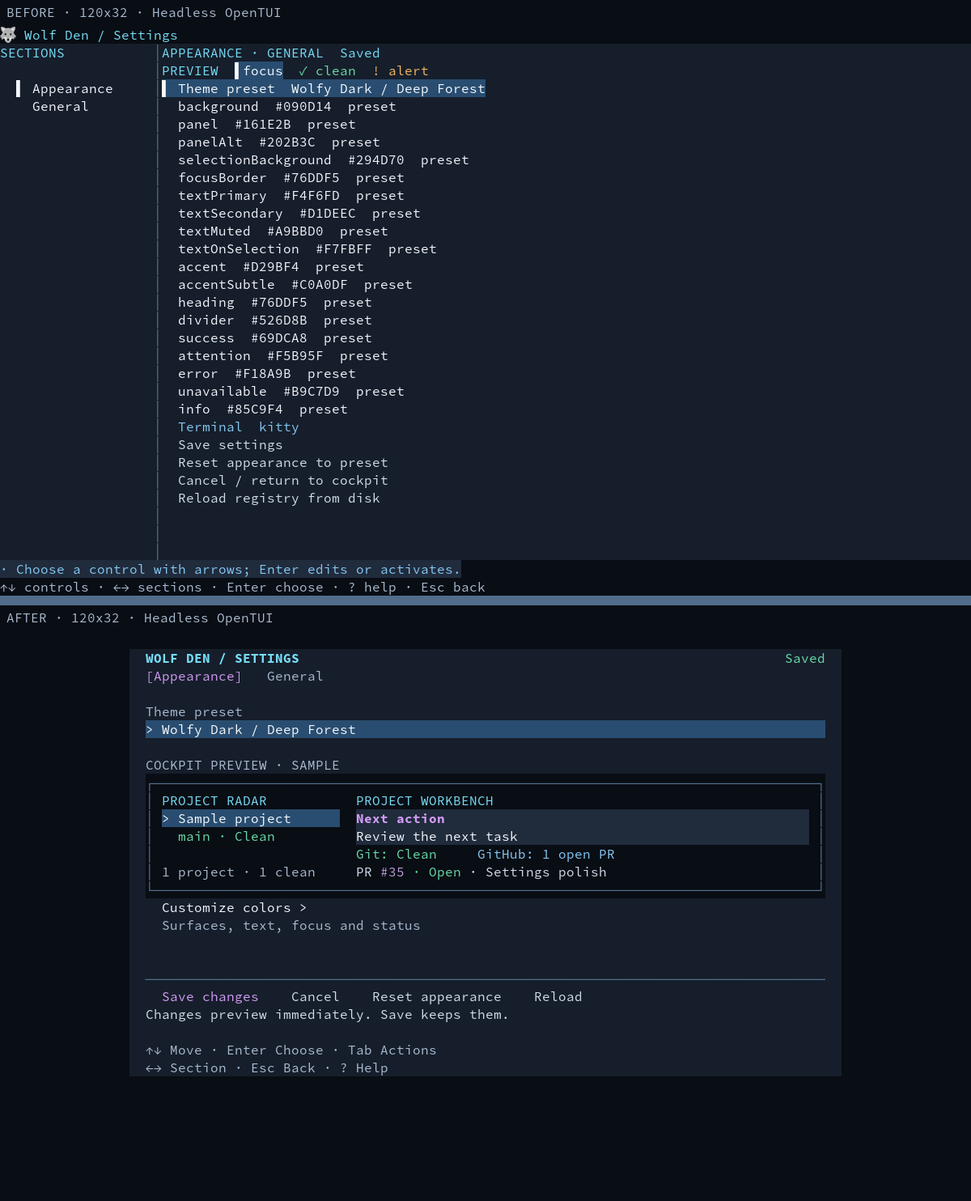
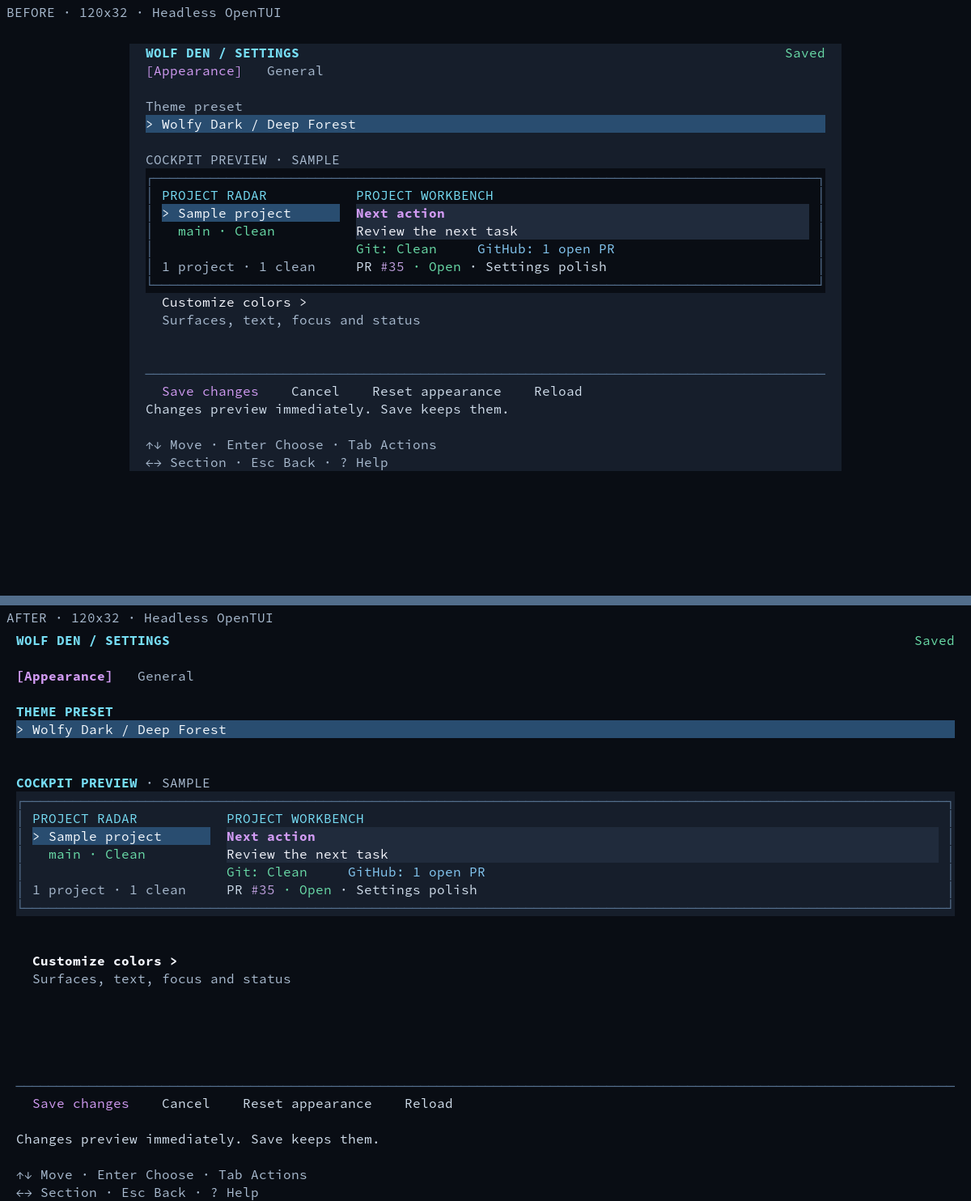
Use full-size Settings with clearer headings and section spacing

diff --git a/src/settings-view.ts b/src/settings-view.ts
@@ -63,11 +63,20 @@ export class SettingsNavigation {
 }
 
 export function settingsGeometry(width: number, height: number) {
-  const columns = Math.min(88, width >= 56 ? width - 4 : width);
-  const rows = Math.min(24, height);
+  const tight = height < 22;
+  const roomy = height >= 28;
   const padding = width >= 80 ? 2 : 1;
-  // Header, tabs, action divider/row, feedback and two keyboard-hint rows.
-  return { columns, rows, padding, innerWidth: columns - padding * 2, bodyHeight: rows - 9, compact: width < 80 || height < 22 };
+  const headingHeight = tight ? 1 : 2;
+  const tabsHeight = tight ? 2 : 1;
+  const dividerHeight = roomy ? 2 : 1;
+  const actionHeight = roomy ? 2 : 1;
+  const hintsHeight = tight ? 2 : 3;
+  const feedbackMinimum = width >= 80 ? 1 : 2;
+  const bodyHeight = height - headingHeight - tabsHeight - dividerHeight - actionHeight - feedbackMinimum - hintsHeight;
+  return { columns: width, rows: height, padding, innerWidth: width - padding * 2,
+    bodyHeight, headingHeight, tabsHeight, dividerHeight, actionHeight, hintsHeight, feedbackMinimum,
+    bodyPadding: tight ? 0 : 1, sectionGap: roomy ? 2 : tight ? 0 : 1,
+    groupHeadingHeight: tight ? 1 : 2, groupSpacing: !tight, compact: width < 80 || height < 24 };
 }
 
 function clip(text: string, width: number, widthMethod: WidthMethod): string {
@@ -132,7 +141,7 @@ export class SettingsView {
   constructor(private renderer: CliRenderer) {
     const box = (options: ConstructorParameters<typeof BoxRenderable>[1] = {}) => new BoxRenderable(renderer, { flexDirection: "column", flexShrink: 0, ...options });
     const text = (height = 1) => new TextRenderable(renderer, { height, flexShrink: 0, wrapMode: "none" });
-    this.root = box({ width: "100%", height: "100%", alignItems: "center", visible: false });
+    this.root = box({ width: "100%", height: "100%", visible: false });
     this.content = box({ width: "100%" }); this.root.add(this.content);
     this.heading = text(); this.tabs = text(2);
     this.body = box({ overflow: "hidden" });
@@ -150,10 +159,10 @@ export class SettingsView {
     this.general = text(6); this.body.add(this.general);
     this.colors = box(); this.body.add(this.colors);
     this.groupHeading = text(); this.colors.add(this.groupHeading);
-    this.colorRows = Array.from({ length: 23 }, () => {
+    this.colorRows = Array.from({ length: 28 }, () => {
       const row = box({ flexDirection: "row", height: 1 });
       const swatch = text(); swatch.width = 6;
-      const label = text(); label.flexGrow = 1;
+      const label = text();
       const value = text(); value.width = 9;
       row.add(swatch); row.add(label); row.add(value); this.colors.add(row);
       return { box: row, swatch, label, value };
@@ -174,7 +183,7 @@ export class SettingsView {
     this.root.visible = true;
     this.content.width = Math.max(1, g.columns); this.content.height = g.rows;
     this.content.paddingX = g.padding;
-    this.root.paddingTop = height > 24 ? 1 : 0;
+    this.heading.height = g.headingHeight; this.tabs.height = g.tabsHeight;
     if (!session || !theme || width < 42 || height < 18) {
       this.heading.content = "WOLF DEN / SETTINGS";
       this.tabs.content = !theme ? "Loading Settings…\nEsc Back" : "Resize to at least 42 × 18.\nEsc Back · Ctrl+C Quit";
@@ -182,7 +191,10 @@ export class SettingsView {
       return;
     }
     this.body.visible = this.actionRow.visible = this.actionDivider.visible = this.feedback.visible = this.hints.visible = true;
-    this.root.backgroundColor = theme.background; this.content.backgroundColor = theme.panel;
+    this.root.backgroundColor = theme.background; this.content.backgroundColor = theme.background;
+    this.body.paddingTop = g.bodyPadding;
+    this.actionDivider.height = g.dividerHeight; this.actionRow.height = g.actionHeight;
+    this.hints.height = g.hintsHeight;
     this.heading.fg = theme.heading; this.tabs.fg = theme.textSecondary;
     const w = g.innerWidth, wm = this.renderer.widthMethod;
     const fit = (value: string, columns = w) => clip(value, columns, wm);
@@ -190,8 +202,8 @@ export class SettingsView {
     const title = navigation.section === "colors" ? "APPEARANCE / COLORS" : "WOLF DEN / SETTINGS";
     this.heading.content = new StyledText([bold(fg(theme.heading)(title)), fg(session.dirty ? theme.attention : theme.success)(" ".repeat(Math.max(1, w - title.length - status.length)) + status)]);
     this.tabs.content = navigation.section === "colors" ? "Esc Back to Appearance" : new StyledText([
-      fg(navigation.section === "appearance" ? theme.accent : theme.textMuted)(navigation.section === "appearance" ? "[Appearance]" : " Appearance "),
-      fg(navigation.section === "general" ? theme.accent : theme.textMuted)(navigation.section === "general" ? "  [General]" : "   General"),
+      navigation.section === "appearance" ? bold(fg(theme.accent)("[Appearance]")) : fg(theme.textMuted)(" Appearance "),
+      navigation.section === "general" ? bold(fg(theme.accent)("  [General]")) : fg(theme.textMuted)("   General"),
     ]);
     const feedback = session.confirmation === "reset" ? "Reset all appearance colors? Enter confirms; Esc keeps draft. Save keeps the reset."
       : session.confirmation === "discard" ? "Discard unsaved changes and return? Enter discards; Esc keeps editing."
@@ -201,8 +213,8 @@ export class SettingsView {
       : session.message;
     const feedbackLines = settingsFeedbackLines(feedback, w, wm);
     // Long persistence/conflict messages borrow body rows, never the action/hint rows.
-    const feedbackHeight = Math.min(Math.max(2, feedbackLines.length), g.bodyHeight - 3);
-    const bodyHeight = g.bodyHeight - (feedbackHeight - 2);
+    const feedbackHeight = Math.min(Math.max(g.feedbackMinimum, feedbackLines.length), g.bodyHeight - 3);
+    const bodyHeight = g.bodyHeight - (feedbackHeight - g.feedbackMinimum);
     this.body.height = bodyHeight;
     this.feedback.height = feedbackHeight;
     this.feedback.fg = session.error ? theme.error : session.confirmation ? theme.attention : theme.textSecondary;
@@ -215,19 +227,22 @@ export class SettingsView {
     this.general.visible = !navigation.help && navigation.section === "general";
     this.colors.visible = !navigation.help && navigation.section === "colors";
     this.help.visible = navigation.help;
-    this.preset.height = g.compact ? 2 : 3;
-    this.preset.content = new StyledText([fg(theme.textMuted)("Theme preset\n"), line(themeLabels[session.themeId], navigation.control === "preset")]);
-    this.previewLabel.fg = theme.textMuted; this.previewLabel.content = "COCKPIT PREVIEW · SAMPLE";
+    this.preset.height = 2 + g.sectionGap;
+    this.preset.content = new StyledText([bold(fg(theme.heading)("THEME PRESET\n")), line(themeLabels[session.themeId], navigation.control === "preset")]);
+    this.previewLabel.content = new StyledText([bold(fg(theme.heading)("COCKPIT PREVIEW")), fg(theme.textMuted)(" · SAMPLE")]);
     this.updatePreview(theme, w, g.compact, fit);
-    this.customize.height = g.compact ? 2 : 3;
-    this.customize.content = new StyledText([line("Customize colors >", navigation.control === "customize"), fg(theme.textMuted)("\n" + fit("  Surfaces, text, focus and status"))]);
-    this.general.content = new StyledText([fg(theme.textMuted)("Terminal preference\n"), line(session.terminal === "system" ? "System default" : session.terminal, navigation.control === "terminal"), fg(theme.textSecondary)("\n\n" + fit("Used when opening a project terminal.") + "\nTakes effect after Save.")]);
-    this.updateColors(session, navigation, Math.max(1, bodyHeight - 2), w, fit);
+    this.customize.marginTop = g.sectionGap; this.customize.height = 2;
+    this.customize.content = new StyledText([bold(line("Customize colors >", navigation.control === "customize")), fg(theme.textMuted)("\n" + fit("  Surfaces, text, focus and status"))]);
+    this.general.height = 6 + g.sectionGap;
+    this.general.content = new StyledText([bold(fg(theme.heading)("TERMINAL PREFERENCE\n" + "\n".repeat(g.sectionGap))), line(session.terminal === "system" ? "System default" : session.terminal, navigation.control === "terminal"), fg(theme.textSecondary)("\n\n" + fit("Used when opening a project terminal.") + "\nTakes effect after Save.")]);
+    this.groupHeading.height = g.groupHeadingHeight;
+    this.updateColors(session, navigation, Math.max(1, bodyHeight - g.bodyPadding - g.groupHeadingHeight - 1), w, g.groupSpacing, fit);
     const help = ["SETTINGS HELP", "↑/↓ Move · ←/→ Appearance/General", "Tab / Shift+Tab: actions / return", "Enter edits or activates", "Colors: type six hex digits after #", "Enter accepts; Esc cancels color edit", "Esc Colors: back, draft retained", "* marks a custom color override", "Save writes Appearance + General", "Cancel exits; confirms draft discard", "Reset: confirm, preview, then Save", "Reload: confirm discard, read disk", "PgUp/PgDn scroll · ? closes help", "Esc returns · Ctrl+C quits"];
-    navigation.helpOffset = Math.min(navigation.helpOffset, Math.max(0, help.length - bodyHeight));
-    this.help.height = bodyHeight; this.help.fg = theme.textSecondary;
-    this.help.content = help.slice(navigation.helpOffset, navigation.helpOffset + bodyHeight).map(value => fit(value)).join("\n");
-    this.actionDivider.fg = theme.divider; this.actionDivider.content = "─".repeat(w);
+    const helpHeight = bodyHeight - g.bodyPadding;
+    navigation.helpOffset = Math.min(navigation.helpOffset, Math.max(0, help.length - helpHeight));
+    this.help.height = helpHeight; this.help.fg = theme.textSecondary;
+    this.help.content = help.slice(navigation.helpOffset, navigation.helpOffset + helpHeight).map(value => fit(value)).join("\n");
+    this.actionDivider.fg = theme.divider; this.actionDivider.content = "\n".repeat(g.dividerHeight - 1) + "─".repeat(w);
     const actionLabels = { save: g.compact ? "Save" : "Save changes", cancel: "Cancel", reset: g.compact ? "Reset" : "Reset appearance", reload: "Reload" };
     for (const [control, node] of this.actionNodes) {
       node.visible = navigation.actions.includes(control);
@@ -236,22 +251,23 @@ export class SettingsView {
       node.content = new StyledText([navigation.control === control ? selected(`> ${label} `, true) : fg(control === "save" ? theme.accent : theme.textSecondary)(`  ${label}  `)]);
     }
     this.hints.fg = theme.textMuted;
-    this.hints.content = navigation.help ? "PgUp/PgDn Scroll\n? Close help · Esc Back" : session.editing ? "Type #RRGGBB · Backspace corrects\nEnter Accept · Esc Cancel edit" : navigation.section === "colors"
+    const hints = navigation.help ? "PgUp/PgDn Scroll\n? Close help · Esc Back" : session.editing ? "Type #RRGGBB · Backspace corrects\nEnter Accept · Esc Cancel edit" : navigation.section === "colors"
       ? "↑↓ Move · Enter Edit · Tab Actions\nPgUp/PgDn Scroll · Esc Back · ? Help"
       : "↑↓ Move · Enter Choose · Tab Actions\n←→ Section · Esc Back · ? Help";
+    this.hints.content = (g.hintsHeight > 2 ? "\n" : "") + hints;
   }
 
   private updatePreview(theme: SemanticTheme, width: number, compact: boolean, fit: (text: string, width?: number) => string): void {
     this.preview.height = compact ? 4 : 7;
     this.preview.borderColor = theme.divider; this.preview.border = compact ? [] : true;
-    this.preview.backgroundColor = theme.background;
+    this.preview.backgroundColor = theme.panel;
     this.preview.paddingX = compact ? 0 : 1;
     this.radar.visible = !compact;
     this.radar.width = 24; this.radar.height = 5;
     this.radar.content = new StyledText([fg(theme.heading)("PROJECT RADAR\n"), fg(theme.textOnSelection)(bg(theme.selectionBackground)("> Sample project      ")), fg(theme.success)("\n  main · Clean"), fg(theme.textMuted)("\n\n1 project · 1 clean")]);
     const inner = compact ? width : width - 28;
     this.workbench.width = inner;
-    this.sampleHeading.bg = compact ? theme.selectionBackground : theme.background;
+    this.sampleHeading.bg = compact ? theme.selectionBackground : theme.panel;
     this.sampleHeading.content = new StyledText([fg(compact ? theme.textOnSelection : theme.heading)(compact ? "> Sample project · main · Clean".padEnd(inner) : "PROJECT WORKBENCH")]);
     this.nextAction.bg = theme.panelAlt;
     this.nextAction.content = new StyledText([bold(fg(theme.accent)("Next action".padEnd(inner) + "\n")), fg(theme.textPrimary)(fit("Review the next task", inner).padEnd(inner))]);
@@ -260,40 +276,47 @@ export class SettingsView {
     this.samplePr.content = new StyledText([fg(theme.textSecondary)("PR "), fg(theme.accentSubtle)("#35"), fg(theme.success)(" · Open"), fg(theme.textSecondary)(" · Settings polish")]);
   }
 
-  private updateColors(session: SettingsSession, navigation: SettingsNavigation, capacity: number, width: number, fit: (text: string, width?: number) => string): void {
+  private updateColors(session: SettingsSession, navigation: SettingsNavigation, capacity: number, width: number, groupSpacing: boolean, fit: (text: string, width?: number) => string): void {
     const theme = session.theme;
-    const entries: { token?: ThemeToken; group: string }[] = colorGroups.flatMap(group => [
+    const entries: { token?: ThemeToken; group: string; spacer?: boolean }[] = colorGroups.flatMap((group, index) => [
+      ...(groupSpacing && index > 0 ? [{ group: group.label, spacer: true }] : []),
       { group: group.label }, ...group.tokens.map(token => ({ token, group: group.label })),
     ]);
     const selected = entries.findIndex(entry => entry.token === navigation.control);
     if (selected >= 0) this.offset = Math.max(0, Math.min(this.offset, selected));
     if (selected >= this.offset + capacity) this.offset = selected - capacity + 1;
     this.offset = Math.min(this.offset, Math.max(0, entries.length - capacity));
-    const start = this.offset + (entries[this.offset]!.token ? 0 : 1);
-    this.groupHeading.fg = theme.heading;
-    this.groupHeading.content = entries[this.offset]!.group.toUpperCase();
+    let start = this.offset;
+    while (start < entries.length && !entries[start]!.token) start++;
+    let end = Math.min(entries.length, start + capacity);
+    // Keep a group title with at least one color instead of orphaning it above the footer.
+    while (end > start && !entries[end - 1]!.token) end--;
+    this.groupHeading.content = new StyledText([bold(fg(theme.heading)(entries[start]!.group.toUpperCase()))]);
     this.colorRows.forEach((row, index) => {
       const entry = entries[start + index];
-      row.box.visible = index < capacity && entry !== undefined;
+      row.box.visible = start + index < end;
       if (!row.box.visible || !entry) return;
       const token = entry.token;
       const active = navigation.control === token;
-      row.box.backgroundColor = active ? theme.selectionBackground : theme.panel;
+      row.box.backgroundColor = active ? theme.selectionBackground : theme.background;
+      row.label.width = Math.min(34, width - 15);
       if (!token) {
+        row.swatch.width = 0; row.value.width = 0; row.label.width = width;
         row.swatch.content = ""; row.value.content = "";
-        row.label.fg = theme.heading; row.label.content = entry.group.toUpperCase();
+        row.label.content = entry.spacer ? "" : new StyledText([bold(fg(theme.heading)(entry.group.toUpperCase()))]);
         return;
       }
+      row.swatch.width = 6; row.value.width = 9;
       const custom = session.overrides[token] !== undefined;
       const value = session.editing?.token === token ? session.editing.value + "_" : theme[token];
       row.swatch.content = new StyledText([fg(active ? theme.textOnSelection : theme.textSecondary)(active ? "> " : "  "), fg(theme.textMuted)("["), bg(theme[token])(" "), fg(theme.textMuted)("] ")]);
       row.label.fg = active ? theme.textOnSelection : theme.textPrimary;
-      row.label.content = fit(colorLabels[token] + (custom ? " *" : ""), width - 15);
+      row.label.content = fit(colorLabels[token] + (custom ? " *" : ""), Math.min(34, width - 15));
       row.value.fg = active ? theme.textOnSelection : theme.textMuted;
       row.value.content = value;
     });
     this.scrollHint.fg = theme.textMuted;
-    const current = entries[Math.max(0, selected)]!;
-    this.scrollHint.content = fit(`${current.group}${current.token && session.overrides[current.token] !== undefined ? " · * custom" : ""}${start + capacity < entries.length ? " · More below ↓" : " · End"}`);
+    const current = entries[selected >= 0 ? selected : start]!;
+    this.scrollHint.content = fit(`${current.group}${current.token && session.overrides[current.token] !== undefined ? " · * custom" : ""}${end < entries.length ? " · More below ↓" : " · End"}`);
   }
 }

diff --git a/docs/SETTINGS-UX-QA.md b/docs/SETTINGS-UX-QA.md
@@ -1,12 +1,12 @@
 # PR #35 — Settings redesign evidence
 
-Status: WOLFY approved the design proposal. Implementation is ready for human UX acceptance; **not merged and not visually accepted in Kitty**.
+Status: WOLFY rejected the centered layout after real Kitty testing and requested this full-size visual refinement. **UX approval remains pending; PR #35 is unmerged.** The adjustment was described in the PR discussion before implementation.
 
 ## Design and scope
 
-Replace the permanent sidebar and combined configuration list with a centered workspace (maximum 88 columns), Appearance/General tabs, and a focused Colors subview. Appearance has a miniature Wolf Den cockpit: project radar, selection, Next action banner, independent Git/GitHub summary, and a compact PR row. The preview is labeled SAMPLE and uses fixed fictional content. Compact mode retains project identity, Next action and Git/GitHub summary; it omits the miniature radar and PR row, not any Settings controls.
+Settings fills the available terminal width and height with ordinary edge padding and the cockpit background. The centered card and 88-column cap are removed. The existing Appearance/General tabs and focused Colors subview are retained. Bold semantic headings, blank space between groups, separated actions/feedback/hints, and responsive section spacing strengthen top-to-bottom scanning. Appearance has a miniature Wolf Den cockpit: project radar, selection, Next action banner, independent Git/GitHub summary, and a compact PR row. The preview is labeled SAMPLE and uses fixed fictional content. Compact mode retains project identity, Next action and Git/GitHub summary; it omits the miniature radar and PR row, not any Settings controls.
 
-Colors groups all 18 semantic tokens into Surfaces, Selection & focus, Text, Identity & structure, and Status. Rows use readable labels, framed swatches, resolved hex values and textual custom markers. Actions and feedback remain outside the scrolling body. Save/Cancel apply to the shared draft; confirmed Reset changes appearance only and needs Save. General contains the existing terminal preference. No dependencies, persistence contract changes, project management or new presets.
+Colors retains all 18 semantic tokens in Surfaces, Selection & focus, Text, Identity & structure, and Status. Group headings align on the same left edge, use bold heading color, and gain blank space between groups when height permits. Values stay near their labels instead of drifting to the right edge. Group titles are kept with at least one color row rather than orphaned above the footer. Rows use readable labels, framed swatches, resolved hex values and textual custom markers. Actions and feedback remain outside the scrolling body. Save/Cancel apply to the shared draft; confirmed Reset changes appearance only and needs Save. General contains the existing terminal preference. No dependencies, persistence contract changes, project management or new presets.
 
 The Settings renderable tree is separate from the dashboard tree. Both share the existing theme/session; dashboard navigation state stays intact. Retained BoxRenderable groups own layout, preview, palette rows and action controls. The existing persistence, validation, cancel, reset and conflict behavior stays in SettingsSession. A renderer factory argument lets interaction tests exercise the real app key routing with OpenTUI's test renderer.
 
@@ -14,7 +14,7 @@ The Settings renderable tree is separate from the dashboard tree. Both share the
 
 **These are headless OpenTUI render captures, rasterized from the actual renderer's captured spans and colors. They are not Kitty screenshots, PTY screenshots, or hand-drawn UI mockups.** Each comparison contains the complete BEFORE frame above the complete AFTER frame at the same cell dimensions. Source Code Pro is used for rasterization; actual Kitty font, glyph and contrast behavior still needs owner review.
 
-Baseline: `babfa79` (the existing feature branch after development was merged). Both versions use the same temporary version-1 registry: terminal `kitty`, no color overrides, no projects, Settings open with the preset focused. The preview itself supplies labeled sample cockpit content. No personal registry, private project names or private paths were captured.
+Baseline: `973b409` (the previous PR #35 revision that received the latest human Kitty feedback). These comparisons show the full-size refinement against the centered layout. Both versions use the same temporary version-1 registry: terminal `kitty`, no color overrides, no projects, Settings open with the preset focused. The preview itself supplies labeled sample cockpit content. No personal registry, private project names or private paths were captured.
 
 | Cells | Before/after |
 | --- | --- |
@@ -24,9 +24,11 @@ Baseline: `babfa79` (the existing feature branch after development was merged). 
 | 56×22 | [Comparison](settings-ux/comparison-56x22.png) |
 | 42×18 | [Comparison](settings-ux/comparison-42x18.png) |
 
+Colors comparisons: [120×32](settings-ux/colors-comparison-120x32.png), [42×18](settings-ux/colors-comparison-42x18.png).
+
 Additional revised captures: [Colors 120×32](settings-ux/colors-120x32.png), [Colors 42×18](settings-ux/colors-42x18.png), [last color focused at 42×18](settings-ux/colors-end-42x18.png), [General 42×18](settings-ux/general-42x18.png).
 
-Capture method: build the app, create an `@opentui/core/testing` renderer at the specified dimensions, pass its renderer to `runDashboard` with a temporary registry, send `s` using mock input, wait for the registry snapshot, then capture the character frame and `captureSpans()`. For Colors send Down/Enter; send Down 17 times for the last token. Return with Esc before selecting General. Baseline used the same method with the pre-redesign compiled UI and session. PNGs retain the captured foreground/background values and cell positions; labels outside each frame identify the capture type and dimensions.
+Capture method: build the app, create an `@opentui/core/testing` renderer at the specified dimensions, pass its renderer to `runDashboard` with a temporary registry, send `s` using mock input, wait for the registry snapshot, then capture the character frame and `captureSpans()`. For Colors send Down/Enter; send Down 17 times for the last token. Return with Esc before selecting General. Baseline used the same method before this refinement, with the previous compiled Settings view. PNGs retain the captured foreground/background values and cell positions; labels outside each frame identify the capture type and dimensions.
 
 ## Automated and terminal verification
 
@@ -37,16 +39,29 @@ Capture method: build the app, create an `@opentui/core/testing` renderer at the
 - Rendered app interaction tests cover separate sections at all five sizes; every focused color visible at 42×18; resize to 120×32 and back with the last token selected; swatch color preview; invalid/incomplete input; cancellation restoring the previous color; Save; Reset confirmation; unsaved indicators; external-edit conflict and confirmed Reload; discard confirmation; Help scrolling; below-minimum recovery; and retaining the selected project's dashboard frame on return.
 - Existing session/persistence tests retain failure-path coverage, including failed writes, no-write previews/cancel, terminal choices, preserving project records and explicit settings, atomic writes, and external-edit conflict detection.
 - Actual PTY smoke checks ran at **120×32, 100×25, 80×24, 56×22 and 42×18** with temporary registries. At every size: opened Settings; entered Colors; edited Background to `#123456`; verified no registry write before Save; saved and checked the persisted override; returned to Appearance, then cockpit; quit. Every process exited 0 and restored terminal echo/canonical input flags. Raw PTY output was inspected for successful screen transitions; geometry and visual comparison use the separately identified headless renderer captures.
-- **Real Kitty testing unavailable:** isolated launch attempts failed with `X11: Failed to open display :0` and `Wayland: Failed to connect to display`. No claim of actual Kitty rendering, GUI interaction or owner acceptance.
+- **This refinement was not tested in real Kitty by the agent.** Earlier isolated launch attempts in this environment failed with `X11: Failed to open display :0` and `Wayland: Failed to connect to display`. The owner supplied real Kitty feedback on the previous revision; that does not establish acceptance of this revision.
 
 ## Visual self-review
 
-Headless captures support improved hierarchy, composition, bounded proportions, alignment, density, grouped labels, explicit status/focus markers and compact reachability. The normal preview now resembles the cockpit instead of a palette legend. At 42×18, the preview simplifies deliberately while all controls remain reachable and the action/keyboard rows stay visible. Long feedback wraps and borrows body space; exceptionally long diagnostics indicate truncation with an ellipsis. The error recovery actions remain available.
+The visual self-review is against `973b409`, not the original raw configuration list. The structure and behavior from that revision remain in place. Optional gaps reduce at 42×18; the view continues to use the full terminal, with stronger headings and no floating card. Long feedback still wraps and borrows body space; exceptionally long diagnostics indicate truncation with an ellipsis while recovery actions remain available.
 
-Target-terminal contrast, font/glyph appearance and the owner's judgment of polish remain **unverified**. This self-review is not UX acceptance.
+| Criterion | Headless review |
+| --- | --- |
+| Hierarchy | Pass: bold page, tab and section headings distinguish controls from supporting text. |
+| Composition | Pass: full terminal surface, aligned sections, preview, actions and footer. |
+| Proportion | Pass: capped card removed; preview and focus use available width. |
+| Alignment | Pass: Colors group headings align; values stay near labels. |
+| Density | Pass: extra section/group gaps at normal sizes; optional gaps reduce at minimum size. |
+| Contrast | Unverified in Kitty; captured semantic foreground/background colors inspected. |
+| Data honesty | Pass: cockpit preview explicitly labeled SAMPLE; settings remain a draft until Save. |
+| Responsiveness | Pass in headless/PTY checks at all five required sizes. |
+| Accessibility | Pass for exercised keyboard navigation and textual focus/status; actual Kitty glyph appearance remains unverified. |
+| Distinctiveness | Pending WOLFY judgment: full-size presentation uses the existing Deep Forest palette and cockpit hierarchy. |
+
+This self-review and green tests do not grant UX acceptance.
 
 ## Human gate and merge risk
 
 Owner: review the same five sizes in real Kitty, especially 42×18; check Appearance/General navigation, Colors scrolling/editing, focus, Save/Cancel/Reset, conflicts, and returning to the prior cockpit context. Approve or request visual corrections on PR #35. Do not merge without explicit approval.
 
-This is a reversible Settings presentation/navigation change. The blast radius is Settings, theme preview and return to the cockpit. There is no schema migration or persistence-service change; saved settings retain the existing version-1 format.
+This refinement is a reversible Settings rendering/layout change. Navigation and SettingsSession validation/persistence logic are unchanged. The blast radius is Settings geometry, preview, palette scrolling and help/footer layout. There is no schema migration or persistence-service change; saved settings retain the existing version-1 format.

diff --git a/README.md b/README.md
@@ -72,7 +72,7 @@ Saves create a mode `0600` exclusive temporary file beside the registry, write a
 
 ### Settings (v0.3 development)
 
-Press `s` in the cockpit to open Settings. A centered workspace has separate Appearance and General tabs (`←`/`→`); Appearance contains the preset, a miniature sample cockpit, and Customize colors. Colors opens a focused, grouped list of all 18 semantic colors, with readable labels, color swatches, hex values and `*` markers for custom overrides. General contains only the terminal preference. `↑`/`↓` move controls; `PgUp`/`PgDn` move five controls or scroll help. Focus has a `>` marker and selection background. `Tab` jumps to actions and cycles back to the previous field; `Shift+Tab` reverses this. `?` shows Settings help. From Colors, `Esc` returns to Appearance with the draft retained; from the main tabs it returns to the cockpit when clean, or asks for Enter to discard unsaved changes and Esc to keep editing. The selected project, PR and detail scroll position are retained.
+Press `s` in the cockpit to open Settings. A full-size view uses the terminal width with separate Appearance and General tabs (`←`/`→`); Appearance contains the preset, a miniature sample cockpit, and Customize colors. Colors opens a focused, grouped list of all 18 semantic colors, with readable labels, color swatches, hex values and `*` markers for custom overrides. General contains only the terminal preference. `↑`/`↓` move controls; `PgUp`/`PgDn` move five controls or scroll help. Focus has a `>` marker and selection background. `Tab` jumps to actions and cycles back to the previous field; `Shift+Tab` reverses this. `?` shows Settings help. From Colors, `Esc` returns to Appearance with the draft retained; from the main tabs it returns to the cockpit when clean, or asks for Enter to discard unsaved changes and Esc to keep editing. The selected project, PR and detail scroll position are retained.
 
 Enter on the preset cycles installed presets; Wolfy Dark is the only current choice. Enter on a color starts a `#RRGGBB` edit; type six hex digits after the shown `#`, use Backspace to correct, Enter to accept and Esc to cancel. Complete valid colors preview immediately without a disk write; incomplete input leaves the last valid preview in place. Typed shortcut letters do not act on the cockpit while editing. Enter on Terminal cycles `system`, `kitty`, `konsole`, `gnome-terminal`, `xfce4-terminal`, `alacritty` and `xterm`. `system` uses the platform's terminal selection behavior.
 
